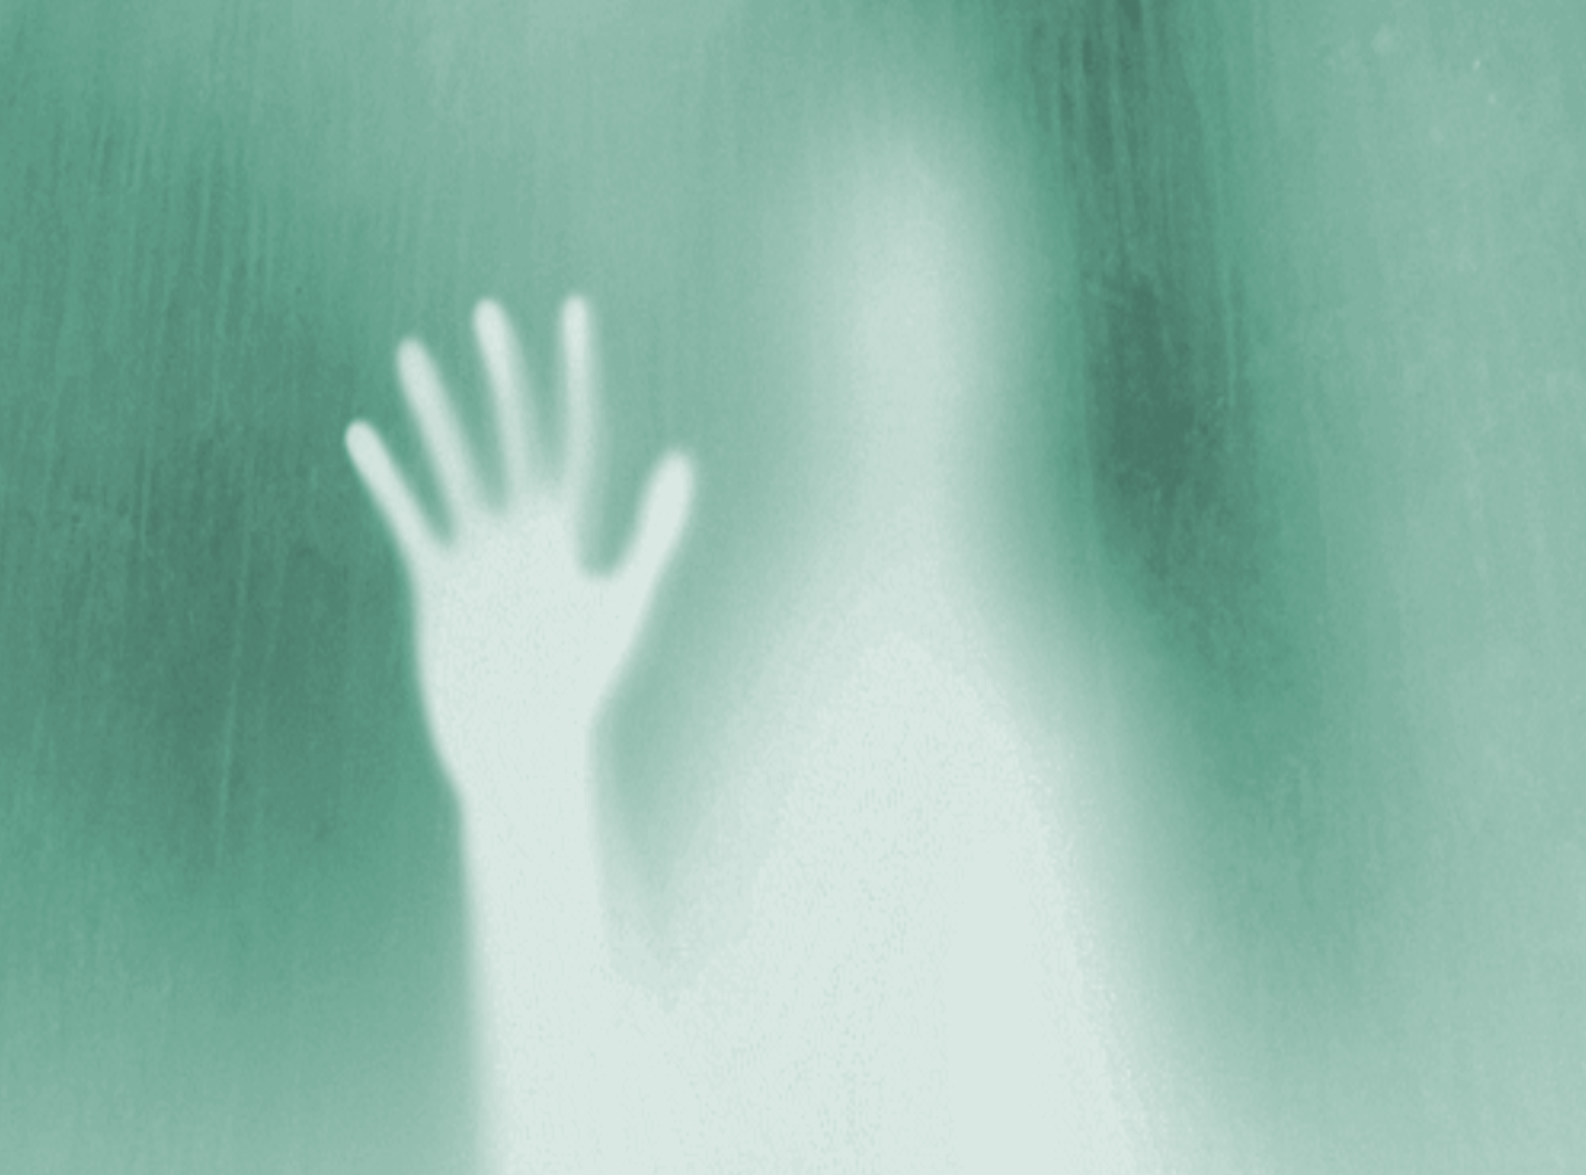
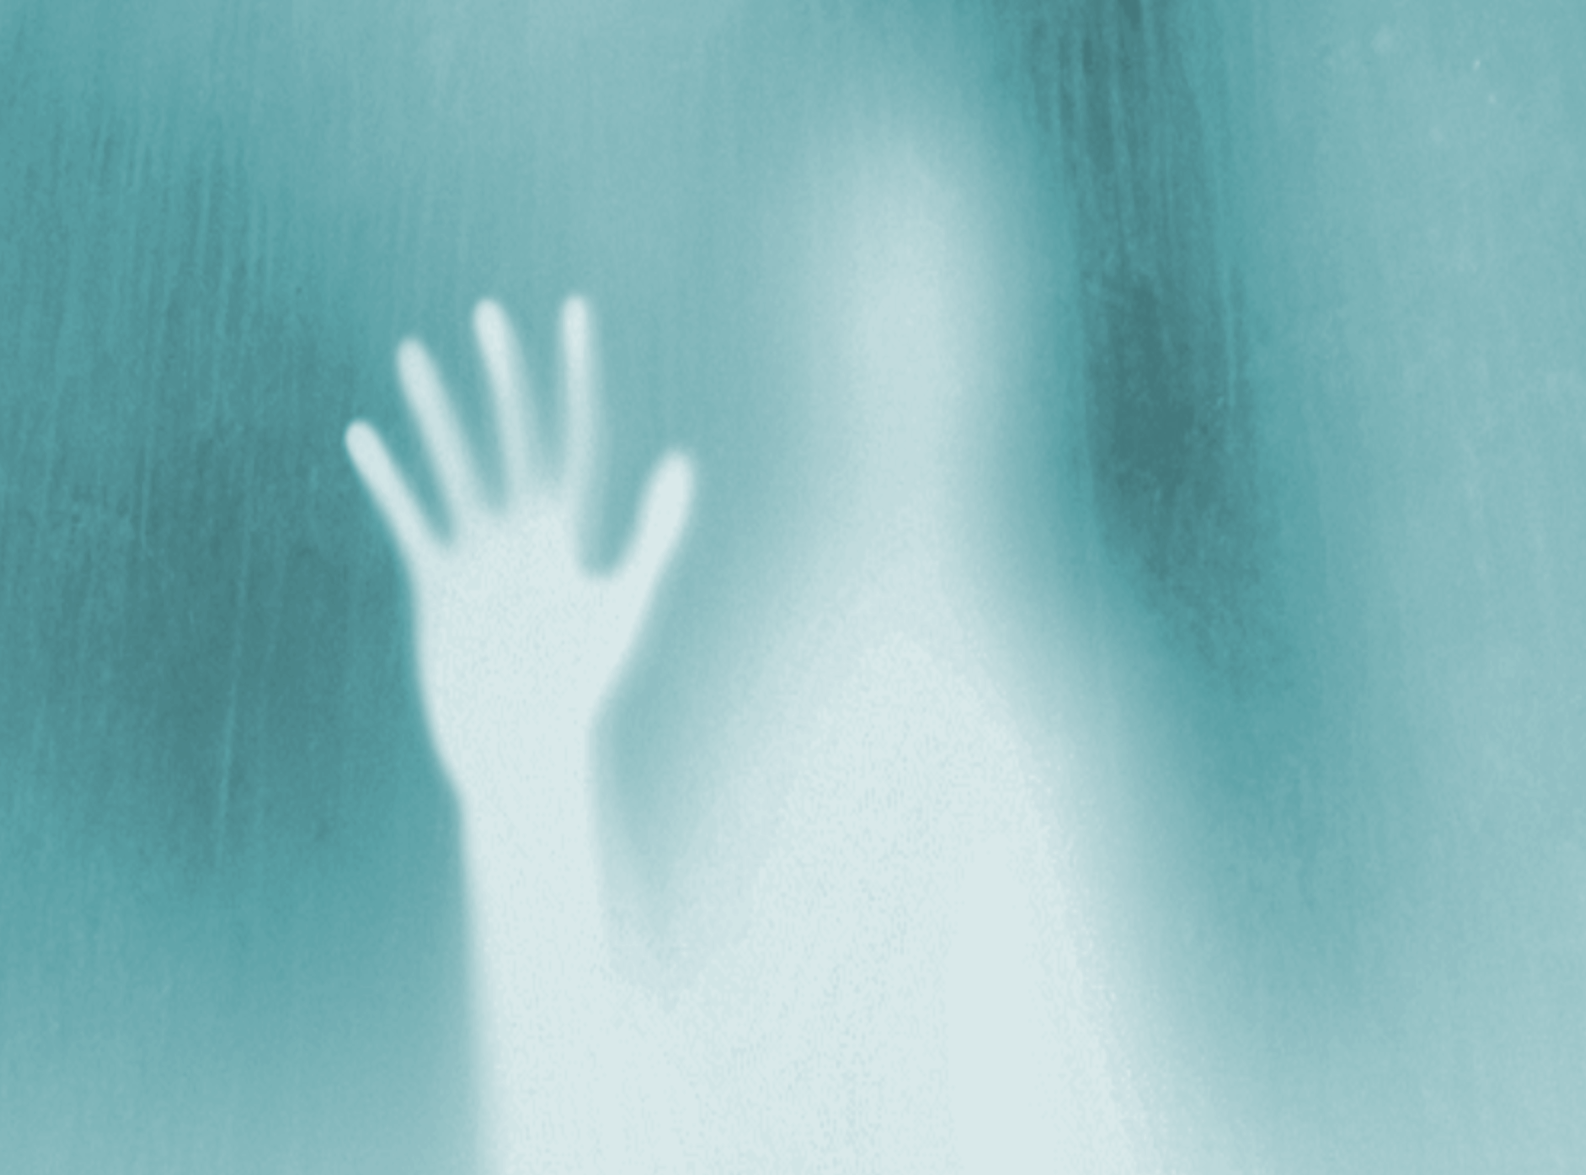
Made an entrance animation

Changed region(s): [[0.0, 0.0, 0.309, 0.8885], [0.5252, 0.0, 0.8651, 0.7353]]

diff --git a/experiments/project-page one/js/script.js b/experiments/project-page one/js/script.js
@@ -43,7 +43,6 @@ let circle3 = {
   vy:0,
   alpha: 190,
 }
-
 let circle4 = {
   x: undefined,
   y: undefined,
@@ -53,7 +52,6 @@ let circle4 = {
   vy:0,
   alpha: 190,
 }
-
 let circle5 = {
   x: undefined,
   y: undefined,
@@ -63,6 +61,13 @@ let circle5 = {
   vy:0,
   alpha: 190,
 }
+let circle6 = {
+  x: undefined,
+  y: undefined,
+  size:10,
+  speed:50,
+  alpha: 100,
+}
 
 
 
@@ -70,7 +75,7 @@ let circle5 = {
 function preload() {
   shadowImg = loadImage("assets/images/shadow.gif");
   handImg =  loadImage("assets/images/handgre.png");
-  shadowShotImg =loadImage("assets/images/shadowGlow1.png");
+  shadowShotImg =loadImage("assets/images/shadowGlow.png");
 }
 
 
@@ -127,6 +132,7 @@ isHandonHand();
     tint(100, 210, 210, 255);
     image(shadowShotImg, width/2, height/2, 800, 590);
 
+    noStroke();
     circle1.size += 1;
     circle1.size = constrain(circle1.size, 20, 210);
     fill(glitch, circle1.alpha);
@@ -157,6 +163,14 @@ isHandonHand();
     circle5.alpha -= circle5.speed;
     ellipse(handPosition.x, handPosition.y, circle5.size);
 
+    circle6.size += 10;
+    circle6.size = constrain(circle6.size, 10, 500);
+    fill(glitch, circle6.alpha);
+    circle6.alpha -= circle6.speed;
+    ellipse(handPosition.x, handPosition.y, circle6.size)
+    circle6.alpha += circle6.speed;
+
+    text3();
     tint(glitch);
     image(handImg, mouseX, mouseY, 140, 190);
 
@@ -164,7 +178,6 @@ isHandonHand();
 
 }
 }
-
 
 
 //
@@ -189,7 +202,17 @@ function stopLoop(){
  function text2(){
    let glitch = random(0, 255);
    textFont(`Verdana`);
-   textSize(30);
+   textSize(25);
    fill(glitch);
-   text(`Touch my hand`, width/7, height/2);
+   text(`Touch my hand`, width/2-220, height/2+10);
+ }
+
+ function text3(){
+   let glitch = random(0, 255);
+   if (circle6.size == 500){
+   textFont(`Verdana`);
+   textSize(20);
+   fill(glitch);
+   text(`Click on It`, handPosition.x-50, handPosition.y -150);
+ }
  }

diff --git a/experiments/project-page one/index.html b/experiments/project-page one/index.html
@@ -15,7 +15,6 @@
 
     <!-- My script(s) -->
     <script src="js/script.js"></script>
-    <script src="js/script-Title.js"></script>
   </head>
 
   <body>
